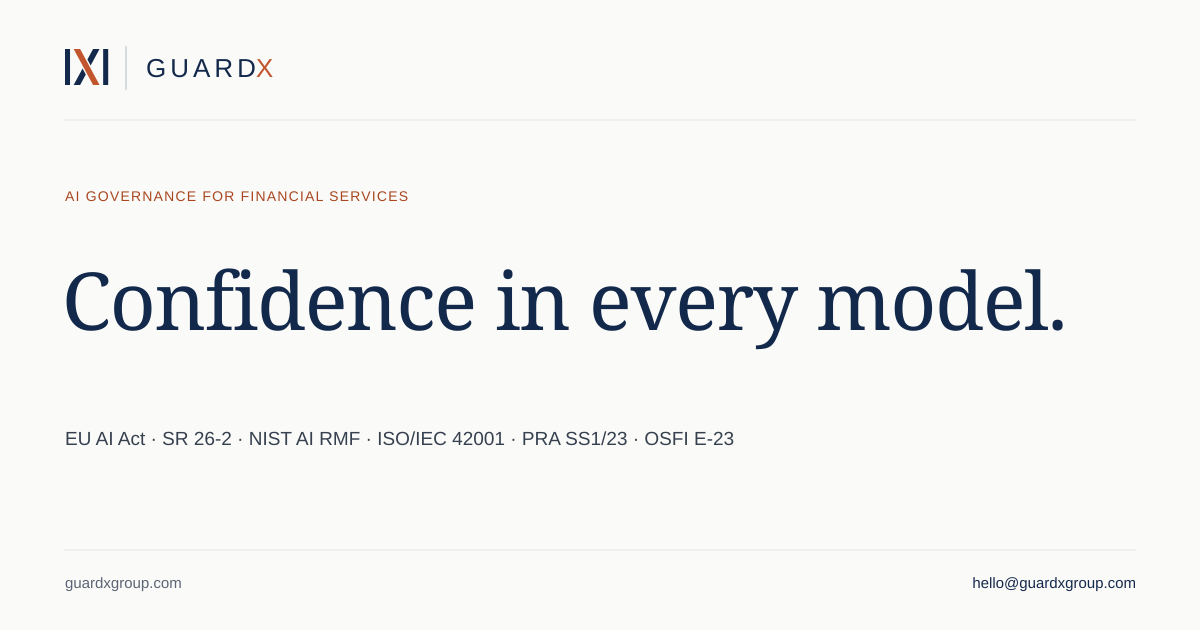
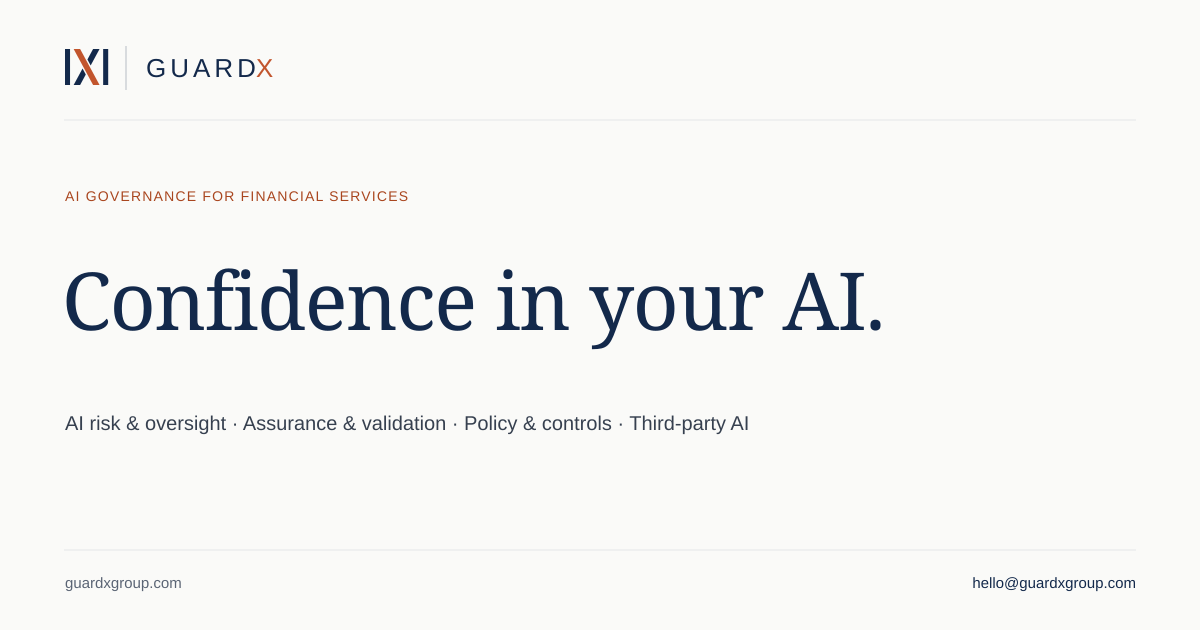
Broaden landing page to AI governance positioning
Replace the regulatory frameworks strip with broad focus areas,
update headline to "Confidence in your AI." and widen the copy
beyond model assessment.

Changed region(s): [[0.4933, 0.4222, 0.8942, 0.573], [0.0308, 0.6635, 0.6167, 0.7238]]

diff --git a/index.html b/index.html
@@ -4,20 +4,20 @@
   <meta charset="utf-8">
   <meta name="viewport" content="width=device-width, initial-scale=1">
   <title>GuardX · AI governance for financial services</title>
-  <meta name="description" content="GuardX helps financial institutions show that their AI and machine-learning models meet the rules that apply to them, from the EU AI Act to supervisory model risk guidance.">
+  <meta name="description" content="GuardX helps financial institutions govern the AI they build, buy and use, with oversight their boards, auditors and supervisors can rely on.">
   <link rel="canonical" href="https://guardxgroup.com/">
   <meta property="og:type" content="website">
   <meta property="og:url" content="https://guardxgroup.com/">
   <meta property="og:site_name" content="GuardX">
   <meta property="og:title" content="GuardX · AI governance for financial services">
-  <meta property="og:description" content="Confidence in every model. AI governance for financial services.">
+  <meta property="og:description" content="Confidence in your AI. AI governance for financial services.">
   <meta property="og:image" content="https://guardxgroup.com/og-image.png">
   <meta property="og:image:width" content="1200">
   <meta property="og:image:height" content="630">
   <meta property="og:image:alt" content="GuardX — AI governance for financial services">
   <meta name="twitter:card" content="summary_large_image">
   <meta name="twitter:title" content="GuardX · AI governance for financial services">
-  <meta name="twitter:description" content="Confidence in every model. AI governance for financial services.">
+  <meta name="twitter:description" content="Confidence in your AI. AI governance for financial services.">
   <meta name="twitter:image" content="https://guardxgroup.com/og-image.png">
   <link rel="icon" href="favicon.ico" sizes="48x48">
   <link rel="icon" href="favicon.svg" type="image/svg+xml">
@@ -42,24 +42,20 @@
   <main id="main">
     <section class="hero wrap" aria-labelledby="hero-title">
       <p class="eyebrow">AI governance for financial services</p>
-      <h1 id="hero-title">Confidence in every model.</h1>
-      <p class="lede">GuardX helps financial institutions show that their AI and machine-learning models meet the rules that apply to them, using the evidence they already hold.</p>
+      <h1 id="hero-title">Confidence in your AI.</h1>
+      <p class="lede">GuardX helps financial institutions govern the AI they build, buy and use, with oversight their boards, auditors and supervisors can rely on.</p>
       <div class="actions">
         <a class="button" href="mailto:hello@guardxgroup.com?subject=Briefing%20request">Request a briefing <span aria-hidden="true">→</span></a>
       </div>
     </section>
 
-    <section class="regimes" aria-labelledby="regimes-title">
-      <div class="wrap regimes-inner">
-        <h2 id="regimes-title" class="label">Assessed against</h2>
-        <ul class="regime-list">
-          <li>EU AI Act</li>
-          <li>SR 26-2</li>
-          <li>NIST AI RMF</li>
-          <li>ISO/IEC 42001</li>
-          <li>PRA SS1/23</li>
-          <li>OSFI E-23</li>
-          <li>Your internal policies</li>
+    <section class="areas" aria-label="Areas of focus">
+      <div class="wrap">
+        <ul class="area-list">
+          <li>AI risk &amp; oversight</li>
+          <li>Assurance &amp; validation</li>
+          <li>Policy &amp; controls</li>
+          <li>Third-party AI</li>
         </ul>
       </div>
     </section>
@@ -69,7 +65,7 @@
         <div>
           <p class="eyebrow eyebrow-light">Contact</p>
           <h2 id="contact-title">Start with a confidential briefing.</h2>
-          <p>For model risk, compliance, second-line and internal audit teams. Bring a model or a use case and the regimes it falls under.</p>
+          <p>For risk, compliance, technology and audit leaders. Tell us where AI is showing up in your business and what you need to stand behind.</p>
         </div>
         <div class="contact-actions">
           <a class="button button-light" href="mailto:hello@guardxgroup.com?subject=Briefing%20request">Request a briefing <span aria-hidden="true">→</span></a>

diff --git a/assets/site.css b/assets/site.css
@@ -47,17 +47,14 @@ img { display: block; max-width: 100%; height: auto; }
 /* Hero */
 .hero { padding-block: 112px 120px; }
 h1 { max-width: 880px; margin-top: 24px; color: var(--navy); font-family: var(--serif); font-size: clamp(40px, 5.6vw, 72px); font-weight: 400; line-height: 1.08; letter-spacing: -.02em; text-wrap: balance; }
-.lede { max-width: 620px; margin-top: 28px; font-size: 19px; line-height: 1.7; }
+.lede { text-wrap: pretty; max-width: 620px; margin-top: 28px; font-size: 19px; line-height: 1.7; }
 .actions { display: flex; flex-wrap: wrap; align-items: center; gap: 16px 32px; margin-top: 40px; }
 
-/* Regimes strip */
-.regimes { border-block: 1px solid var(--line); background: var(--surface); }
-.regimes-inner { display: flex; align-items: baseline; gap: 40px; padding-block: 26px; }
-.regimes .label { flex-shrink: 0; }
-.regime-list { display: flex; flex-wrap: wrap; gap: 10px 0; color: var(--navy); font-size: 15px; font-weight: 500; }
-.regime-list li { display: inline-flex; align-items: center; }
-.regime-list li:not(:last-child)::after { content: ""; width: 4px; height: 4px; margin-inline: 16px; border-radius: 50%; background: var(--accent); opacity: .7; }
-.regime-list li:last-child { color: var(--muted); font-weight: 400; font-style: italic; }
+/* Areas strip */
+.areas { border-block: 1px solid var(--line); background: var(--surface); }
+.area-list { display: flex; flex-wrap: wrap; gap: 10px 0; padding-block: 26px; color: var(--navy); font-size: 15px; font-weight: 500; }
+.area-list li { display: inline-flex; align-items: center; }
+.area-list li:not(:last-child)::after { content: ""; width: 4px; height: 4px; margin-inline: 20px; border-radius: 50%; background: var(--accent); opacity: .7; }
 
 /* Contact */
 .contact { color: #C9D2DE; background: var(--navy); }
@@ -80,7 +77,6 @@ h1 { max-width: 880px; margin-top: 24px; color: var(--navy); font-family: var(--
 
 @media (max-width: 960px) {
   .wrap { width: calc(100% - 64px); }
-  .regimes-inner { flex-direction: column; gap: 10px; }
   .contact-inner { flex-direction: column; align-items: flex-start; gap: 36px; }
 }
 @media (max-width: 720px) {
@@ -95,11 +91,8 @@ h1 { max-width: 880px; margin-top: 24px; color: var(--navy); font-family: var(--
   h1 { margin-top: 18px; font-size: clamp(34px, 9.4vw, 46px); }
   .lede { margin-top: 20px; font-size: 17px; }
   .actions { margin-top: 30px; flex-direction: column; align-items: flex-start; }
-  .regimes-inner { padding-block: 22px; }
-  .regime-list { font-size: 14px; }
-  .regime-list li:not(:last-child)::after { margin-inline: 11px; }
-  .regime-list li:nth-last-child(2)::after { display: none; }
-  .regime-list li:last-child { flex-basis: 100%; }
+  .area-list { flex-direction: column; gap: 8px; padding-block: 22px; font-size: 14px; }
+  .area-list li::after { display: none !important; }
   .contact-inner { padding-block: 64px 68px; }
   .contact p:not(.eyebrow) { font-size: 16px; }
   .site-footer { flex-wrap: wrap; gap: 4px 12px; padding-block: 22px; }
